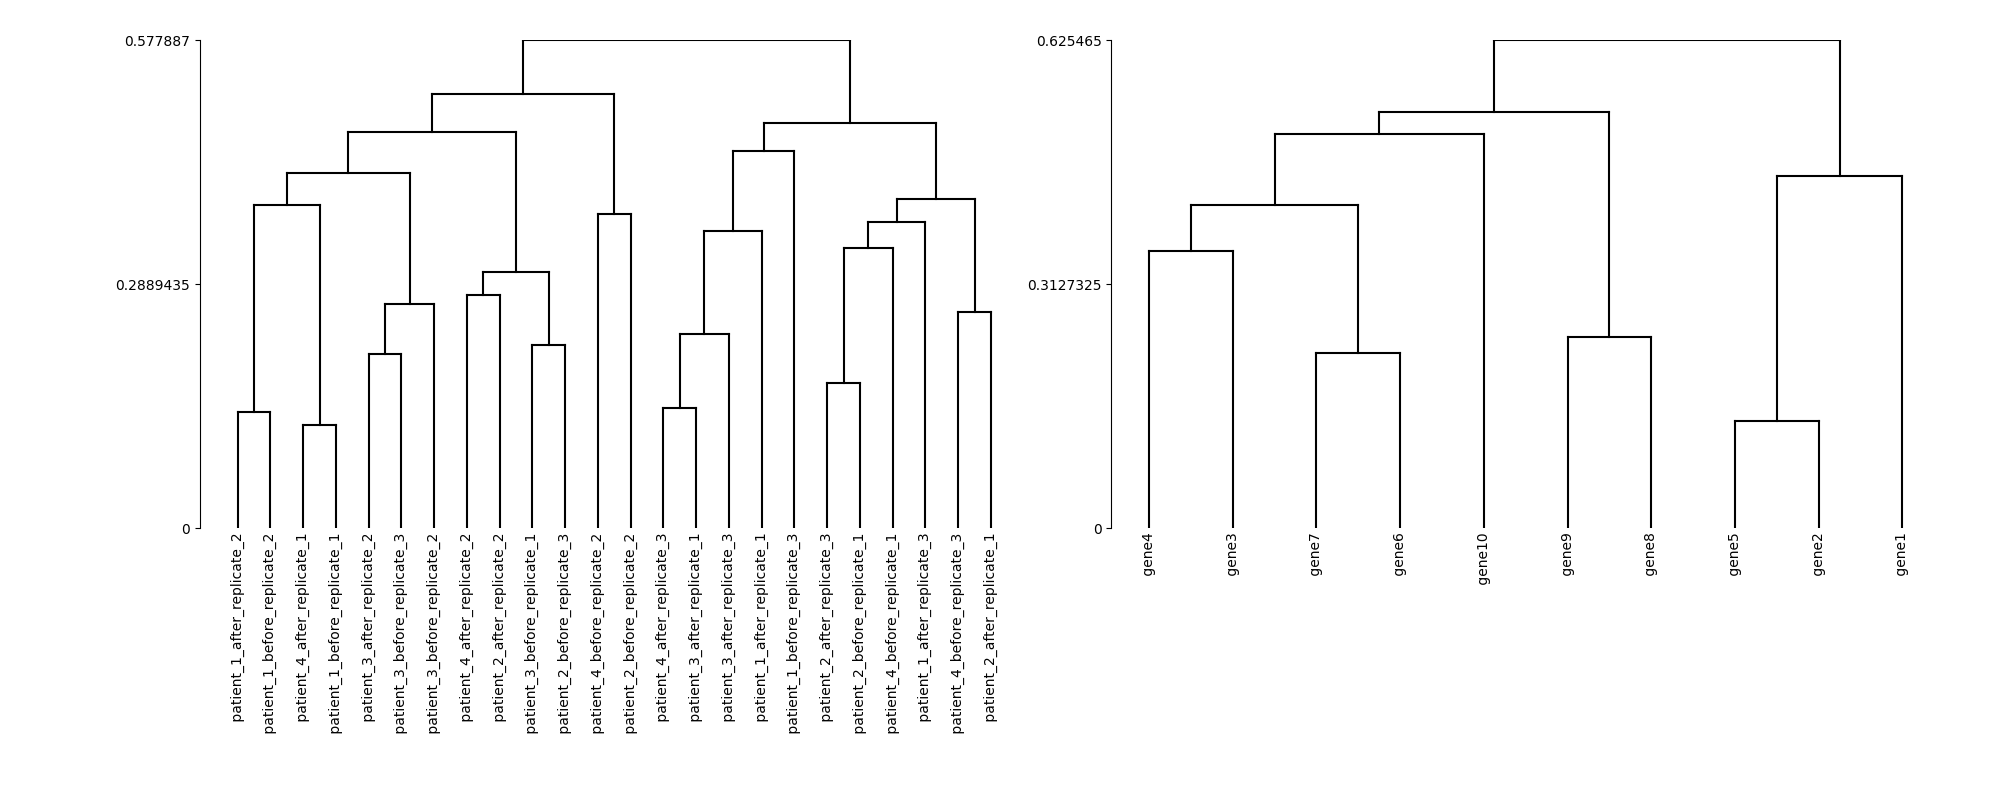
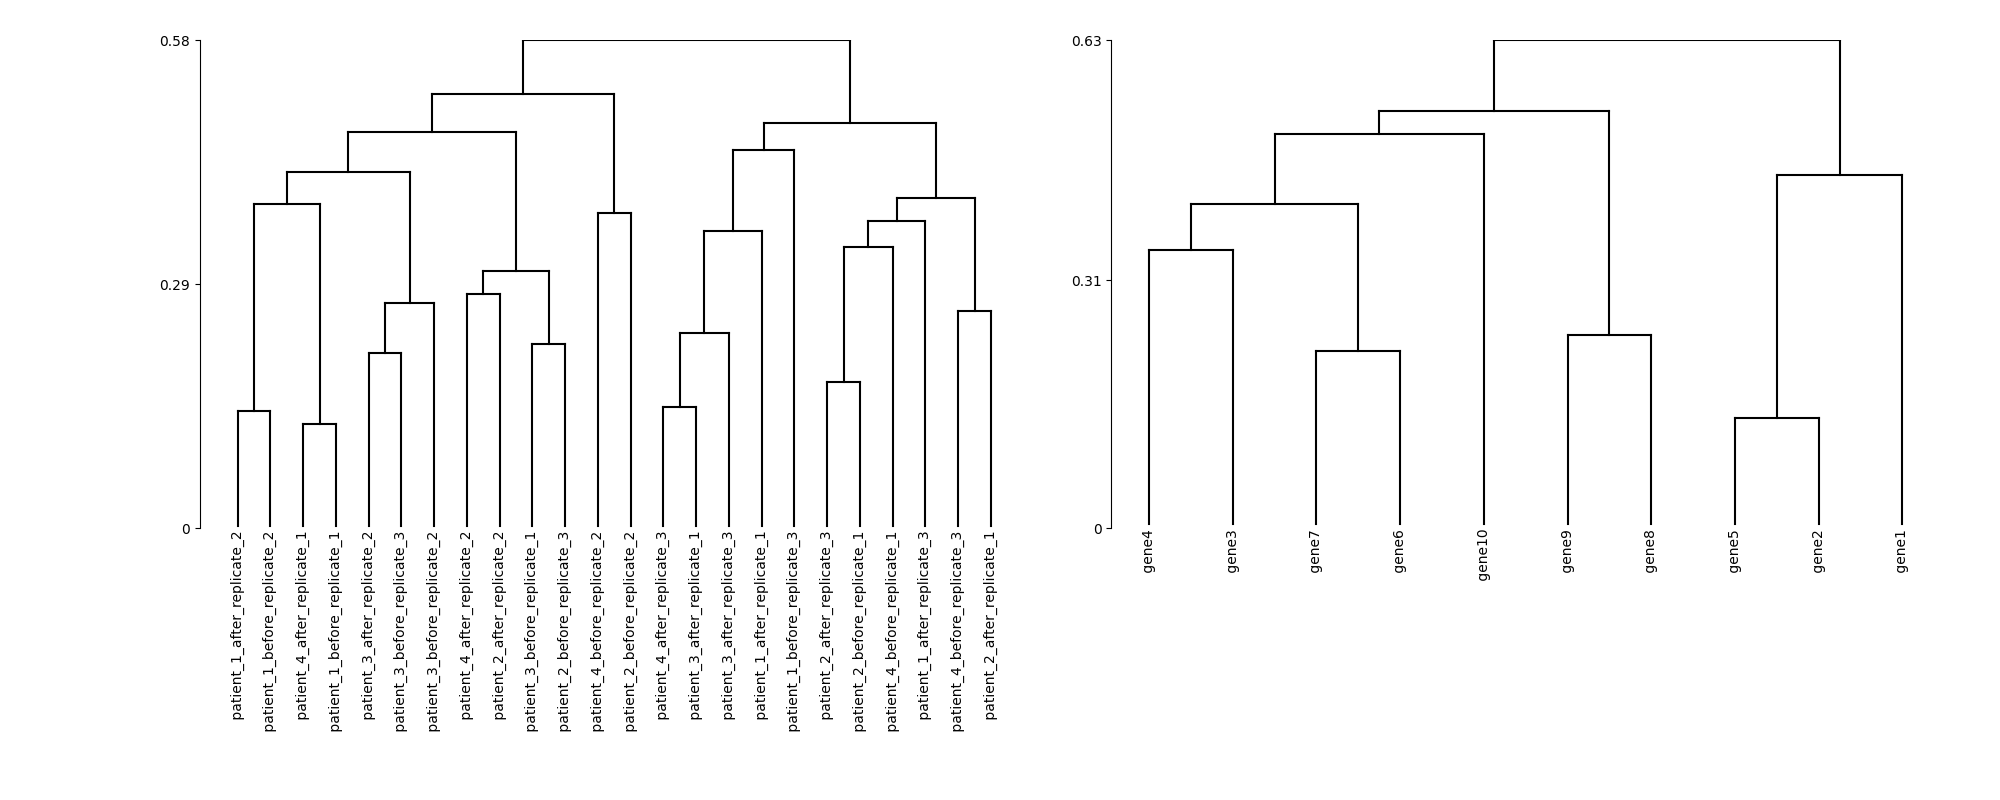
Added some documentation, renamed plotIt() to recursive() to make clear that it is not iterative, y-axis-values are rounded

diff --git a/SL.py b/SL.py
@@ -1,3 +1,7 @@
+"""
+A module to practice clustering.
+"""
+
 from matplotlib import pyplot as plot
 from matplotlib.gridspec import GridSpec
 from matplotlib.colors import LinearSegmentedColormap
@@ -14,34 +18,58 @@ microarray_cmap = LinearSegmentedColormap('microarray', {
 
 
 def main():
+    """
+    The main-method generates fictive measurements of patient tissues concerning breast cancer
+    before and after a treatment on different genes, then clusters it with WPGMA-algorithm and
+    plots it to a heatmap of the correlations with the dendograms.
+    """
+
     #  simulate data
+    # np.random.seed(2139315)
     np.random.seed(1)
     simDataPatient = {"patient_%d_%s_replicate_%d" % (i//6+1, ["before", "after"][i//3%2], i%3+1): getRandoms() for i in range(24)}
 
+    # simDataPatient contains per patient gene values in order [gene1, gene2, gene3...], so simDataGenes gets per gene the values of its index
     simDataGenes = {key: value[0] for key, value in zip(["gene%d" % i for i in range(1, GENES+1)], zip(simDataPatient.values()))}
+
+    # calc correlations
     corrMatPatient = calcCorrMat(simDataPatient)
     corrMatGenes = calcCorrMat(simDataGenes)
+
+    # gridspec is necessary to adjust the distances between plots, so the dendograms can fit to the borders of the heatmap
     specs = GridSpec(2, 2, width_ratios=[1, .1], height_ratios=[.2, .5], wspace=0.0, hspace=0, top=0.95, bottom=0.34, left=-.07, right=.97)
 
     fig = plot.figure(figsize=(20, 10))
     plots = [plot.subplot(specs[0, 0]), plot.subplot(specs[1, 0]), plot.subplot(specs[1, 1])]
     topDendo, heat, rightDendo = plots
 
+    # clustering and plotting the patients' dendogram to the top -> topDendo
     newickPat, depth = WPGMA(corrMatPatient)
-    labels = treeNewick(newickPat + ";", topDendo, root_loc="top", leafLabels=True, showScale=False)
+    labels = treeNewick(newickPat + ";", topDendo, root_loc="top", leafLabels=False, showScale=False)
+
+    # now get the keys and values from simDataPatient sorted by the labels to fit to the dendogram
     keys, values = simDataPatient.keys(), simDataPatient.values()
     keys, values = zip(*sorted(zip(keys, values), key=lambda k: labels.index(k[0])))
 
+    # clustering and plotting the genes' dendogram to the right -> rightDendo
     newickGen, depth = WPGMA(corrMatGenes)
     labels = treeNewick(newickGen + ";", rightDendo, root_loc="right", leafLabels=False, showScale=False)
+
+    # stretch the top dendogram to fit to the heatmap's columns
     lim1, lim2 = topDendo.get_xlim()
     topDendo.set_xlim([lim1-7.4, lim2-.68])
+
+    # now sort the values by the genes' labels to fit to the dendogram
     genes, values = zip(*sorted(zip(["gene%d" % i for i in range(1, GENES + 1)], zip(*values)), key=lambda k: labels.index(k[0])))
     values = zip(*values)
+
+    # update simDataPatient with new sorted entries
     simDataPatient = {key: value for key, value in zip(keys, values)}
 
-    plotHeatmap(heat, simDataPatient, genes) # gene labels false
+    plotHeatmap(heat, simDataPatient, genes)
     plot.savefig("heatmap.png")
+
+    # now plot the dendograms itself to a single extra file
     specs = GridSpec(1, 2, width_ratios=[1, 1], height_ratios=[1], wspace=.1, hspace=0, top=0.95, bottom=0.34, left=0.1, right=.97)
     fig = plot.figure(figsize=(20, 8))
     plots = [plot.subplot(specs[0, 0]), plot.subplot(specs[0, 1])]
@@ -51,6 +79,9 @@ def main():
 
 
 def getRandoms(num=GENES) -> 'list of floats':
+    """
+    Generates num random values between +-100
+    """
     res = np.array([])
     while len(res) < num:
         random = np.random.normal(0, 100)
@@ -60,7 +91,10 @@ def getRandoms(num=GENES) -> 'list of floats':
 
 
 def calcCorrMat(data: dict) -> "dict[dict[list]]":
-    #  calc correlation matrix, values are transformed to 1-correlation -> interval [0,2] with 0 as good correl(1) and 2 as bad(-1) and 
+    """
+    Calculates a correlation matrix from data generated in main()
+    Values are transformed to 1-correlation -> interval [0,2] with 0 as positive correl(1) and 2 as negative(-1) and 1 as anticorrelation
+    """
     corrMat = dict.fromkeys(data.keys(), 0)
     for i in corrMat:
         corrMat[i] = dict.fromkeys(data.keys(), 0)
@@ -71,15 +105,18 @@ def calcCorrMat(data: dict) -> "dict[dict[list]]":
 
 
 def WPGMA(corrMat: dict) -> "(Newick string, length tree)":
-    # WPGMA to cluster 
-    # corrMat={"a":{"a":0, "b":17, "c":21, "d":31, "e":23},
-    #          "b":{"a":17, "b":0, "c":30, "d":34, "e":21},
-    #          "c":{"a":21, "b":30, "c":0, "d":28, "e":39},
-    #          "d":{"a":31, "b":34, "c":28, "d":0, "e":43},
-    #          "e":{"a":23, "b":21, "c":39, "d":43, "e":0}
-    #          }
+    """
+    WPGMA to cluster, input will be changed, so make a copy
+
+    corrMat like {"a":{"a":0, "b":17, "c":21, "d":31, "e":23},
+                  "b":{"a":17, "b":0, "c":30, "d":34, "e":21},
+                  "c":{"a":21, "b":30, "c":0, "d":28, "e":39},
+                  "d":{"a":31, "b":34, "c":28, "d":0, "e":43},
+                  "e":{"a":23, "b":21, "c":39, "d":43, "e":0}
+                  }
+    """
     while len(corrMat) > 1:
-        maxCorr = (float("+inf"), None, None)
+        maxCorr = (float("+inf"), None, None)  # correl and its indices in corrMat
 
         #  find best correlation
         for i in corrMat:
@@ -87,24 +124,31 @@ def WPGMA(corrMat: dict) -> "(Newick string, length tree)":
                 if i != j and maxCorr[0] > corrMat[i][j]:
                     maxCorr = (corrMat[i][j], i, j)
 
+        correl, child_1, child_2 = maxCorr
+
+        # in corrMat[maxCorr[i]][maxCorr[i]] is the current distance to the root
+        # this can be done because in original WPGMA is this index ignored (because 0)
+        child_1_distance = np.abs(correl/2-corrMat[child_1][child_1])
+        child_2_distance = np.abs(correl/2-corrMat[child_2][child_2])
+
         #  newick is the new node name
-        newick = "(%s:%f,%s:%f)" % (maxCorr[1], np.abs(maxCorr[0]/2-corrMat[maxCorr[1]][maxCorr[1]]), maxCorr[2], np.abs(maxCorr[0]/2-corrMat[maxCorr[2]][maxCorr[2]]))
+        newick = "(%s:%f,%s:%f)" % (child_1, child_1_distance, child_2, child_2_distance)
 
         #  merge best pair of tissues by arithmetic mean
-        for i in corrMat[maxCorr[1]]:  # calc new distances to nodes from new node
-            corrMat[maxCorr[1]][i] = (corrMat[maxCorr[1]][i] + corrMat[maxCorr[2]][i]) / 2
+        for i in corrMat[child_1]:  # calc new distances to nodes from new node
+            corrMat[child_1][i] = (corrMat[child_1][i] + corrMat[child_2][i]) / 2
 
         # replace old node name with new node name
-        corrMat[newick] = corrMat[maxCorr[1]]
+        corrMat[newick] = corrMat[child_1]
         corrMat[newick][newick] = maxCorr[0]/2
-        corrMat.pop(maxCorr[1])
-        corrMat.pop(maxCorr[2])
+        corrMat.pop(child_1)
+        corrMat.pop(child_2)
 
         # replace old node pair with new joined node in all other nodes
         for i in corrMat:
             corrMat[i][newick] = corrMat[newick][i]
-            corrMat[i].pop(maxCorr[1])
-            corrMat[i].pop(maxCorr[2])
+            corrMat[i].pop(child_1)
+            corrMat[i].pop(child_2)
 
     newick, length = list(corrMat.keys())[0], list(list(corrMat.values())[0].values())[0]
     return newick, length
@@ -121,22 +165,39 @@ def plotHeatmap(plot, data, dataLabels=[]) -> None:
 
 
 def treeNewick(newick: str, plot, root_loc="left", leafLabels=True, showScale=True):
+    """
+    Plots a dendogram from a newick-formatted tree.
+    This method is currently developed for this script only and works well with it,
+    but for general use, there is no check, if the newick string is correct, and no
+    method to make it compatible.
 
-    def plotIt(newick: str, plot, x=0, **kwargs) -> "float[tree depth]":
+    Works properly with the WPGMA-returned newick with following EBNF:
+    tree => "(" (tree|label) ":" distance "," (tree|label) ":" distance ")"
+    label => str
+    distance => float
+
+    other possible strings aren't tested
+    """
+
+    def recursive(newick: str, plot, x=0, **kwargs) -> "float[tree depth]":
         """
+        Plots a dendogram recursively from a given newick string.
+
         kwargs: treeDepth=0, lowestLeaf=x, leafLabels=True, nodeLabels=True, treeColor="black"
         """
         if newick[0] == "(" and newick[-1] == ")":
             newick = newick[1:-1]
 
-        lowestLeaf = kwargs.get("lowestLeaf", 15)
-        treeColor = kwargs.get("treeColor", "black") 
+        lowestLeaf = kwargs.get("lowestLeaf", 15)  # important to have the same distance between the children/leafs
+        treeColor = kwargs.get("treeColor", "black")
         nodeLabels = kwargs.get("nodeLabels", True)
         leafLabels = kwargs.get("leafLabels", True)
         kwargs["treeDepth"] = kwargs.get("treeDepth", 0)
-        myPosY = None
+        myPosY = None  # necessary to return it to center the previous root properly
 
         if newick[0] == "(":
+
+            # detect end of the subtree by finding its closing bracket
             splitIndex, openBrackets = 1, 1
             while openBrackets > 0:
                 openBrackets += newick[splitIndex] == "("
@@ -145,23 +206,23 @@ def treeNewick(newick: str, plot, root_loc="left", leafLabels=True, showScale=Tr
             splitIndex += newick[splitIndex:].find(",")
 
             if newick[splitIndex] == ")":  # if it's sth. like (subTree)C:1
-                label, length = newick[newick.rfind(")")+1:].split(":")
-                kwargs["treeDepth"], kwargs["lowestLeaf"], myPosY = plotIt(newick[1: newick.rfind(")")], plot, x + float(length), **kwargs)
-                #if nodeLabels:
+                label, length = newick[splitIndex+1:].split(":")
+                kwargs["treeDepth"], kwargs["lowestLeaf"], myPosY = recursive(newick[1: splitIndex], plot, x + float(length), **kwargs)
+                # if nodeLabels:
                 #    plot.text(x + float(length), myPosY, " " + label)
                 draw([x, x + float(length)], [myPosY, myPosY], treeColor=treeColor)
 
             else:  # if it's sth. like (subTree)R:1,(subTree)Q:1
                 upper, lower = newick[:splitIndex], newick[splitIndex+1:]
-                kwargs["treeDepth"], kwargs["lowestLeaf"], upperPos = plotIt(upper, plot, x, **kwargs)
-                kwargs["treeDepth"], kwargs["lowestLeaf"], lowerPos = plotIt(lower, plot, x, **kwargs)
+                kwargs["treeDepth"], kwargs["lowestLeaf"], upperPos = recursive(upper, plot, x, **kwargs)
+                kwargs["treeDepth"], kwargs["lowestLeaf"], lowerPos = recursive(lower, plot, x, **kwargs)
                 draw([x, x], [upperPos, lowerPos], treeColor=treeColor)
                 myPosY = (upperPos - lowerPos) / 2 + lowerPos
 
         elif "," in newick:  # if it's sth. like A:1,(subtree)B:1
             upper, lower = newick.split(",", 1)
-            kwargs["treeDepth"], kwargs["lowestLeaf"], upperPos = plotIt(upper, plot, x, **kwargs)
-            kwargs["treeDepth"], kwargs["lowestLeaf"], lowerPos = plotIt(lower, plot, x, **kwargs)
+            kwargs["treeDepth"], kwargs["lowestLeaf"], upperPos = recursive(upper, plot, x, **kwargs)
+            kwargs["treeDepth"], kwargs["lowestLeaf"], lowerPos = recursive(lower, plot, x, **kwargs)
             draw([x, x], [upperPos, lowerPos], treeColor=treeColor)
             myPosY = (upperPos - lowerPos) / 2 + lowerPos
 
@@ -176,14 +237,18 @@ def treeNewick(newick: str, plot, root_loc="left", leafLabels=True, showScale=Tr
         return kwargs["treeDepth"], kwargs["lowestLeaf"], myPosY
 
     def draw(x, y, label=None, treeColor="black"):
-        if label is None:
+        """
+        Simplifies plotting in right location and alignment
+        """
+        if label is None:  # -> draw a line
             if root_loc in ("left", "right"):
                 plot.plot(x, y, color=treeColor)
             else:
                 plot.plot(y, x, color=treeColor)
-        else:
+
+        else:  # -> write text into the plot (for children)
             label = " %s " % label
-            alpha = float(leafLabels)
+            alpha = float(leafLabels)  # labels are always plotted to return the order of children, alpha makes them invisible if wanted
             if root_loc == "left":
                 plot.text(x, y, label, alpha=alpha, verticalalignment="center")
             elif root_loc == "right":
@@ -194,17 +259,16 @@ def treeNewick(newick: str, plot, root_loc="left", leafLabels=True, showScale=Tr
                 plot.text(y, x, label, alpha=alpha, verticalalignment="top", horizontalalignment="center", rotation=90)
 
     newick = newick.replace(" ", "")
-    childs = newick.count(":")
     if newick[-1] != ";":
         raise ValueError("Newick string doesn't end with a semicolon")
 
-    depth, _, _ = plotIt(newick[:-1], plot, leafLabels=leafLabels)
+    depth, _, _ = recursive(newick[:-1], plot, leafLabels=leafLabels)
     plot.spines['bottom'].set_visible(False)
     plot.spines['top'].set_visible(False)
     plot.spines['left'].set_visible(False)
     plot.spines['right'].set_visible(False)
     plot.set_xlim([0, depth])
-    plot.set_xticks([0, depth/2,  depth])
+    plot.set_xticks([0, round(depth/2, 2),  round(depth, 2)])
     plot.yaxis.set_visible(False)
     plot.xaxis.set_visible(False)
     if showScale:
@@ -212,7 +276,7 @@ def treeNewick(newick: str, plot, root_loc="left", leafLabels=True, showScale=Tr
         plot.spines['bottom'].set_visible(True)
     allLabels = [text.get_text()[1:-1] for text in plot.texts]
     if root_loc == "right":
-        plot.set_xticklabels([depth, depth/2, 0])
+        plot.set_xticklabels([round(depth, 2),  round(depth/2, 2), 0])
         plot.invert_xaxis()
     elif root_loc != "left":
         allLabels = allLabels[::-1]
@@ -223,9 +287,9 @@ def treeNewick(newick: str, plot, root_loc="left", leafLabels=True, showScale=Tr
             plot.xaxis.set_visible(False)
         plot.autoscale("x")
         plot.set_ylim([0, depth])
-        plot.set_yticks([0, depth/2,  depth])
+        plot.set_yticks([0, round(depth/2, 2),  round(depth, 2)])
         if root_loc == "top":
-            plot.set_yticklabels([depth, depth/2, 0])
+            plot.set_yticklabels([round(depth, 2),  round(depth/2, 2), 0])
             plot.invert_yaxis()
 
     return allLabels
@@ -233,6 +297,3 @@ def treeNewick(newick: str, plot, root_loc="left", leafLabels=True, showScale=Tr
 
 if __name__ == '__main__':
     main()
-    # a = np.random.normal(0, 1, 10)
-    # print("len=%d, avg=%f, <100: %s" % (len(a), sum(a)/len(a), np.all(abs(a) < 100)))
-    # print(abs(a))
